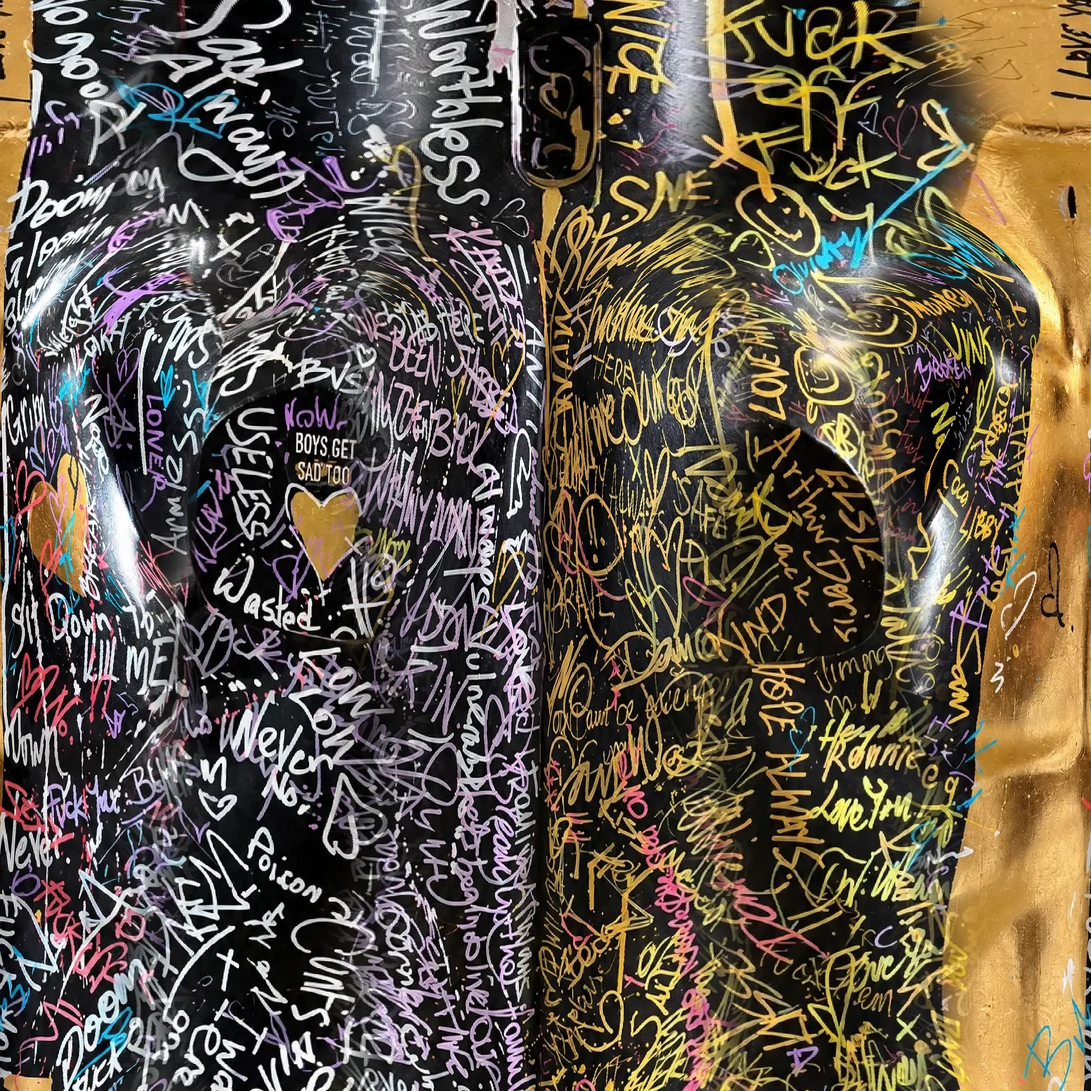
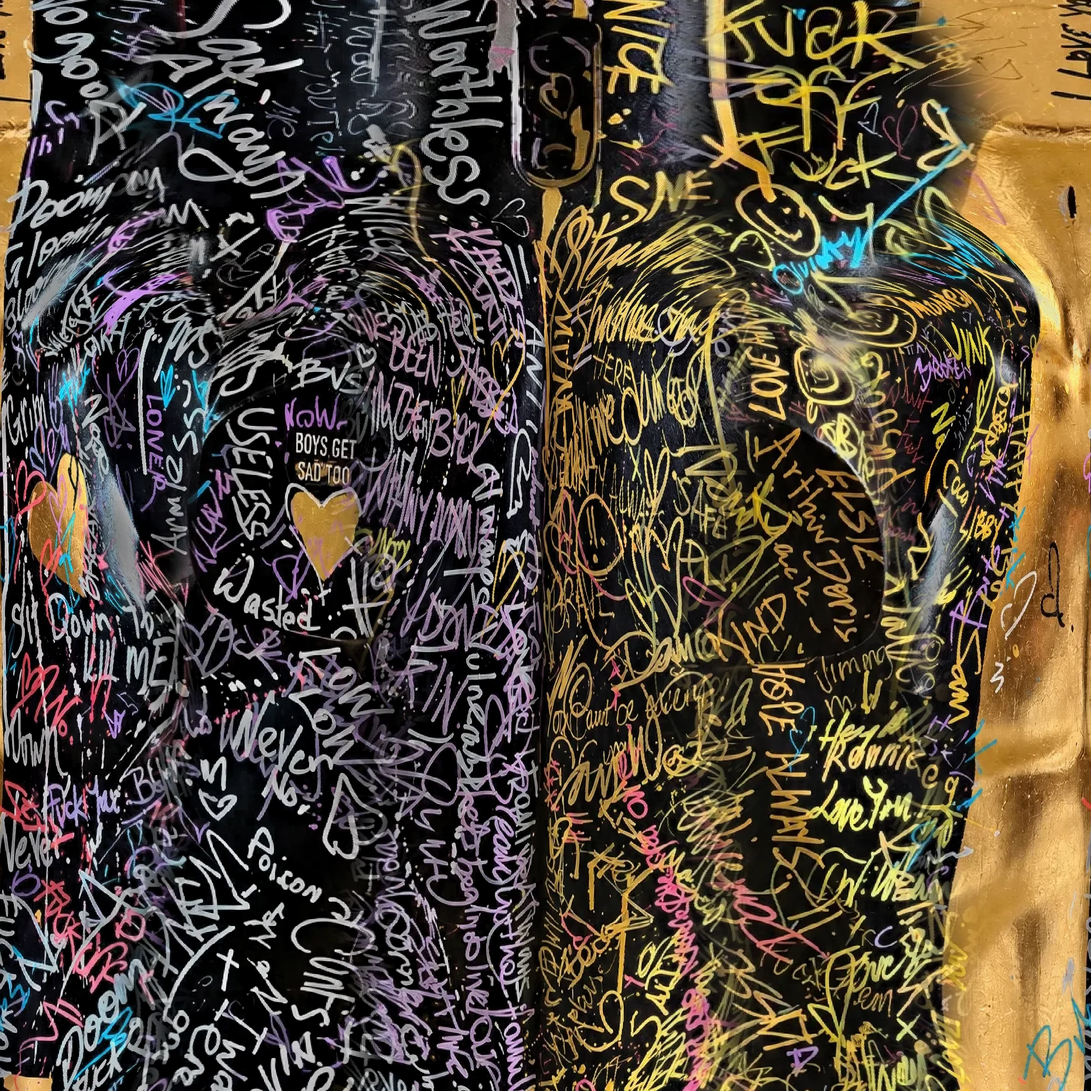
Tagged: gold base removed so it stands on the plinth; photo glare taken out of the surface and the finish made matte; keep the bake script
Claude-Session: https://claude.ai/code/session_01MGMQmvtNXmKgxZLbf5gtuz

diff --git a/components/gallery/engine.js b/components/gallery/engine.js
@@ -306,32 +306,25 @@ function beam(x, yTop, yBot, width, z){
   m.position.set(x,(yTop+yBot)/2, z||.003); m.renderOrder=2; scene.add(m); return m.material;
 }
 
-/* the real piece: a body built from Mark's photos (outline from the front and side shots, surface from all four),
+/* the real piece: a body built from Mark's photos (outline from the front and side shots, surface from all four), standing straight on the plinth,
    swapped in for the stand-in shape as soon as it has loaded */
 let scanReady = false, scanBase = null;
-function goldTex(){ return canvasTex(512,256,(c,w,h)=>{ c.fillStyle='#c79a45'; c.fillRect(0,0,w,h);
-  for(let i=0;i<900;i++){ const x=Math.random()*w, y=Math.random()*h, r=2+Math.random()*16; c.fillStyle=`rgba(${Math.random()<.5?'255,226,150':'120,84,30'},${.05+Math.random()*.12})`; c.fillRect(x,y,r,r*(.3+Math.random()*.7)); }
-  c.strokeStyle='rgba(90,60,20,.18)'; c.lineWidth=1; for(let i=0;i<60;i++){ c.beginPath(); const y=Math.random()*h; c.moveTo(0,y); c.bezierCurveTo(w*.3,y+(Math.random()-.5)*20,w*.6,y+(Math.random()-.5)*20,w,y+(Math.random()-.5)*10); c.stroke(); } }); }
 function loadScan(base){
   fetch(base + '.json').then(r => r.json()).then(d => {
     const tex = loader.load(base + '.webp', () => { if(alive) applyScan(d, tex); }); tex.encoding = THREE.sRGBEncoding; tex.anisotropy = maxAniso;
   }).catch(() => {});
 }
 function applyScan(d, tex){
-  const H = d.height, P = d.profile, f0 = P[0][0], f1 = P[P.length-1][0], baseT = .045, S = 128, N = P.length;
+  const H = d.height, P = d.profile, f0 = P[0][0], f1 = P[P.length-1][0], baseT = 0, S = 128, N = P.length;
   const pos = [], uv = [], idx = [];
   for(let j=0;j<N;j++){ const [f, w, df, db] = P[j], y = baseT + (f1 - f) * H;
     for(let k=0;k<=S;k++){ const th = k / S * Math.PI * 2, dz = Math.cos(th) >= 0 ? df : db;
       pos.push(w * Math.sin(th) * H, y, dz * Math.cos(th) * H); uv.push(k / S, 1 - (f - f0) / (f1 - f0)); } }
   for(let j=0;j<N-1;j++) for(let k=0;k<S;k++){ const a=j*(S+1)+k, b=a+S+1; idx.push(a,b,a+1, a+1,b,b+1); }
   const g = new THREE.BufferGeometry(); g.setAttribute('position', new THREE.Float32BufferAttribute(pos,3)); g.setAttribute('uv', new THREE.Float32BufferAttribute(uv,2)); g.setIndex(idx); g.computeVertexNormals();
-  const mat = new THREE.MeshStandardMaterial({map:tex, roughness:.34, metalness:.08});
-  const gold = new THREE.MeshStandardMaterial({map:goldTex(), color:0xffffff, roughness:.42, metalness:.18});
+  const mat = new THREE.MeshStandardMaterial({map:tex, roughness:.72, metalness:0}); // matte: the photos already carry the real sheen
   const black = new THREE.MeshStandardMaterial({color:0x141312, roughness:.6});
-  const bw = d.base.w * H, bd = d.base.d * H;
   const makeBase = () => { const grp = new THREE.Group();
-    const board = new THREE.Mesh(new THREE.BoxGeometry(bw, baseT*.62, bd), gold); board.position.y = baseT*.38 + baseT*.31; grp.add(board);
-    const strip = new THREE.Mesh(new THREE.BoxGeometry(bw, baseT*.38, bd), black); strip.position.y = baseT*.19; grp.add(strip);
     // the open neck, closed with a dark cap just inside the rim
     const [fT, wT, dfT, dbT] = P[0], cap = new THREE.Mesh(new THREE.CircleGeometry(1, 48), black);
     cap.rotation.x = -Math.PI/2; cap.scale.set(wT * H * .97, (dfT + dbT) / 2 * H * .97, 1); cap.position.set(0, baseT + (f1 - fT) * H - .004, (dfT - dbT) / 2 * H); grp.add(cap);

diff --git a/scripts/bake-sculpture.py b/scripts/bake-sculpture.py
@@ -1,0 +1,62 @@
+"""Build a 3D torso from Mark's 4 background-removed photos: outline from front + side, surface baked from all 4."""
+import numpy as np, json, sys
+from PIL import Image
+R = 'public/art/'  # run from the repo root: python3 scripts/bake-sculpture.py 0.80
+V = [np.asarray(Image.open(f'{R}tagged-view-{i}.webp').convert('RGBA')).astype(np.float32) for i in (1, 2, 3, 4)]
+TORSO_END = float(sys.argv[1]) if len(sys.argv) > 1 else .80   # where the torso meets the base, as a fraction of total height
+info = []
+for a in V:
+    m = a[:, :, 3] > 128; rows = np.where(m.any(1))[0]; t, b = rows[0], rows[-1]
+    cols = np.where(m[b - 3])[0]                     # the base's bottom edge gives the centre line
+    info.append(dict(t=t, H=b - t + 1, cx=(cols[0] + cols[-1]) / 2, m=m))
+def extents(k, f):
+    I = info[k]; y = int(I['t'] + f * (I['H'] - 1)); cols = np.where(I['m'][y])[0]
+    if not len(cols): return 0, 0
+    return (I['cx'] - cols[0]) / I['H'], (cols[-1] - I['cx']) / I['H']   # left, right in units of total height
+N = 160; prof = []
+for j in range(N):
+    f = .015 + (TORSO_END - .015) * j / (N - 1)
+    l1, r1 = extents(0, f); l3, r3 = extents(2, f)
+    w = (l1 + r1 + l3 + r3) / 4                       # half width, front and back views averaged
+    l2, r2 = extents(1, f)                            # camera at -x: image right = +z (chest)
+    l4, r4 = extents(3, f)                            # camera at +x: image left = +z (chest)
+    df = (r2 + l4) / 2; db = (l2 + r4) / 2
+    prof.append([round(f, 4), round(w, 4), round(df, 4), round(db, 4)])
+P = np.array(prof)
+# smooth a touch so the surface doesn't ripple
+for c in (1, 2, 3):
+    P[:, c] = np.convolve(np.pad(P[:, c], 3, mode='edge'), np.ones(7) / 7, mode='valid')
+# bake the surface: u = angle round the body (0 = front), v = height
+TW, TH = 2048, 2048
+u = (np.arange(TW) + .5) / TW; v = (np.arange(TH) + .5) / TH
+U, Vv = np.meshgrid(u, v)
+f = .015 + (TORSO_END - .015) * Vv
+w = np.interp(f, P[:, 0], P[:, 1]); df = np.interp(f, P[:, 0], P[:, 2]); db = np.interp(f, P[:, 0], P[:, 3])
+th = U * 2 * np.pi
+d = np.where(np.cos(th) >= 0, df, db)
+X = w * np.sin(th); Z = d * np.cos(th)
+# outward normal of the ellipse
+nx = np.sin(th) / np.maximum(w, 1e-4); nz = np.cos(th) / np.maximum(d, 1e-4); nl = np.hypot(nx, nz); nx /= nl; nz /= nl
+cams = [(0, 1, 0, +1), (-1, 0, 1, +1), (0, -1, 2, -1), (1, 0, 3, -1)]  # (camera dir x, z, view index, sign of image x)
+acc = np.zeros((TH, TW, 3)); wsum = np.zeros((TH, TW))
+for cx_, cz_, k, sgn in cams:
+    I = info[k]; img = V[k]; Hh, Ww = img.shape[:2]
+    wt = np.clip(nx * cx_ + nz * cz_, 0, None) ** 6
+    horiz = X if cz_ != 0 else Z                      # front/back see x, sides see z
+    if k == 2: horiz = -X
+    if k == 3: horiz = -Z
+    px = np.clip(I['cx'] + horiz * I['H'], 0, Ww - 1); py = np.clip(I['t'] + f * (I['H'] - 1), 0, Hh - 1)
+    s = img[py.astype(int), px.astype(int)]
+    ok = s[:, :, 3] > 160; wt = wt * ok
+    acc += s[:, :, :3] * wt[..., None]; wsum += wt
+col = np.where(wsum[..., None] > 1e-4, acc / np.maximum(wsum, 1e-4)[..., None], 20)
+# take out the studio-light glare baked into the photos: soft, grey, low-detail brightness (writing and gold are kept)
+from PIL import ImageFilter
+mn = col.min(2); bl = np.asarray(Image.fromarray(mn.clip(0, 255).astype(np.uint8)).filter(ImageFilter.GaussianBlur(30))).astype(np.float32)
+sat = (col.max(2) - col.min(2)) / np.maximum(col.max(2), 1)
+col = col - .85 * (np.clip(bl - 30, 0, None) * np.clip(1 - sat * 2.2, 0, 1))[..., None]
+Image.fromarray(col.clip(0, 255).astype(np.uint8)).save(R + 'tagged-model.webp', 'WEBP', quality=86, method=6)
+# base: width/depth from the bottom of the front and side views
+lb, rb = extents(0, .985); ls, rs = extents(1, .985)
+json.dump({'height': .8, 'torsoEnd': TORSO_END, 'profile': P.round(4).tolist(), 'base': {'w': round(lb + rb, 4), 'd': round(ls + rs, 4)}}, open(R + 'tagged-model.json', 'w'))
+print('ok', P[::20].round(3).tolist(), 'base', lb + rb, ls + rs, 'coverage', float((wsum > 1e-4).mean()))
